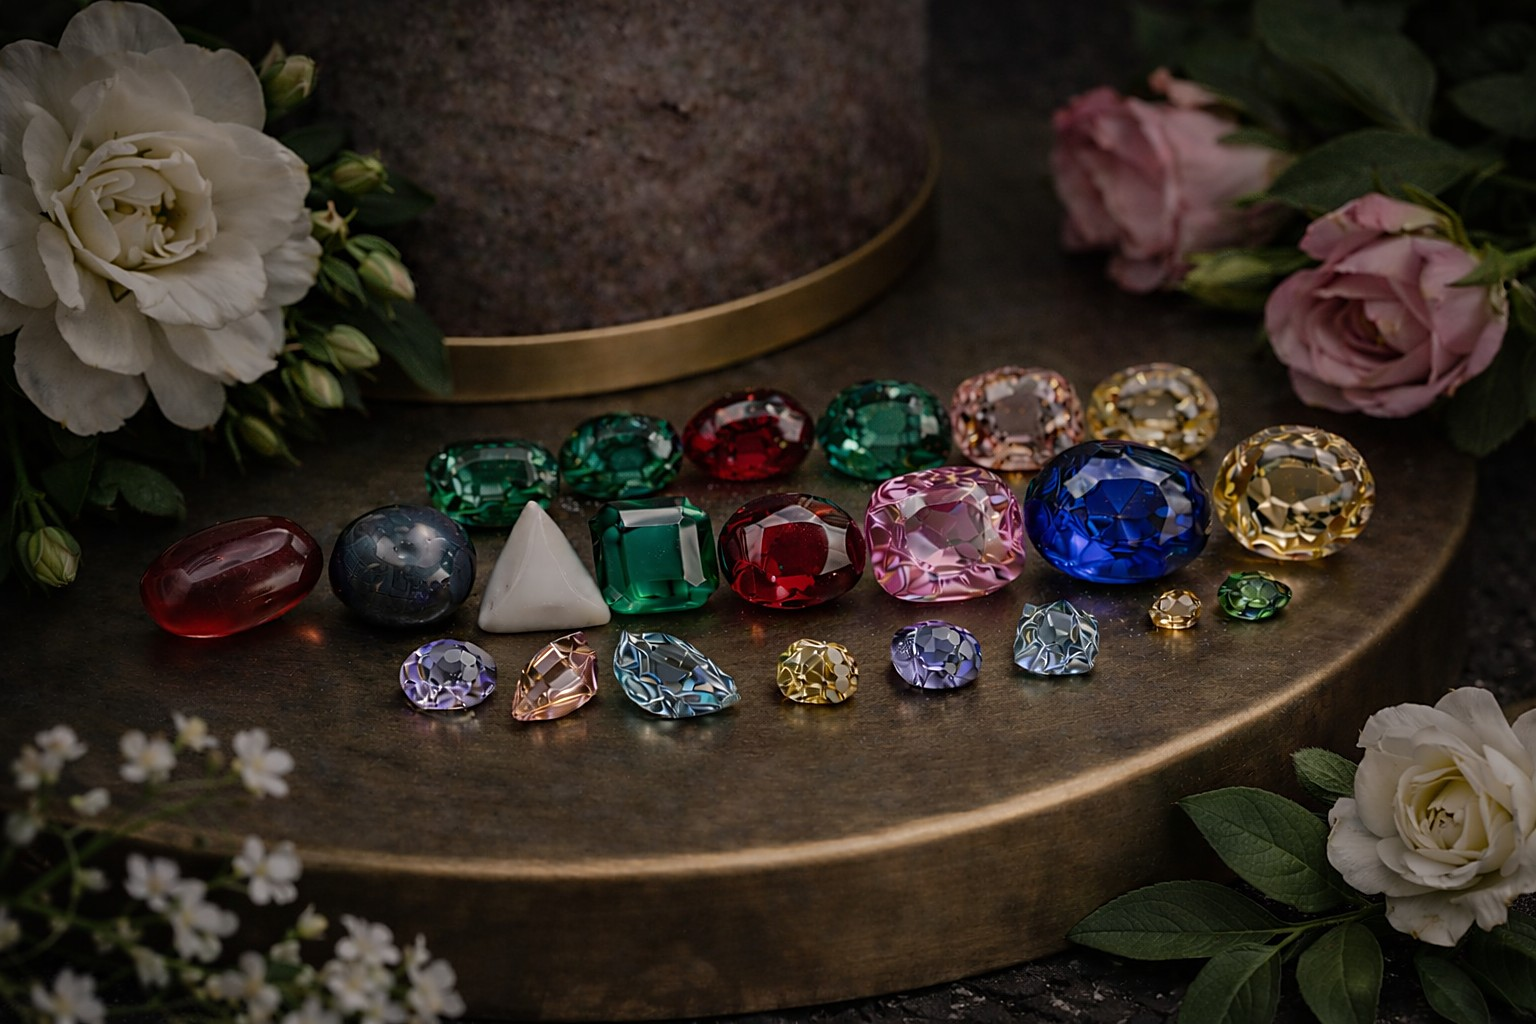
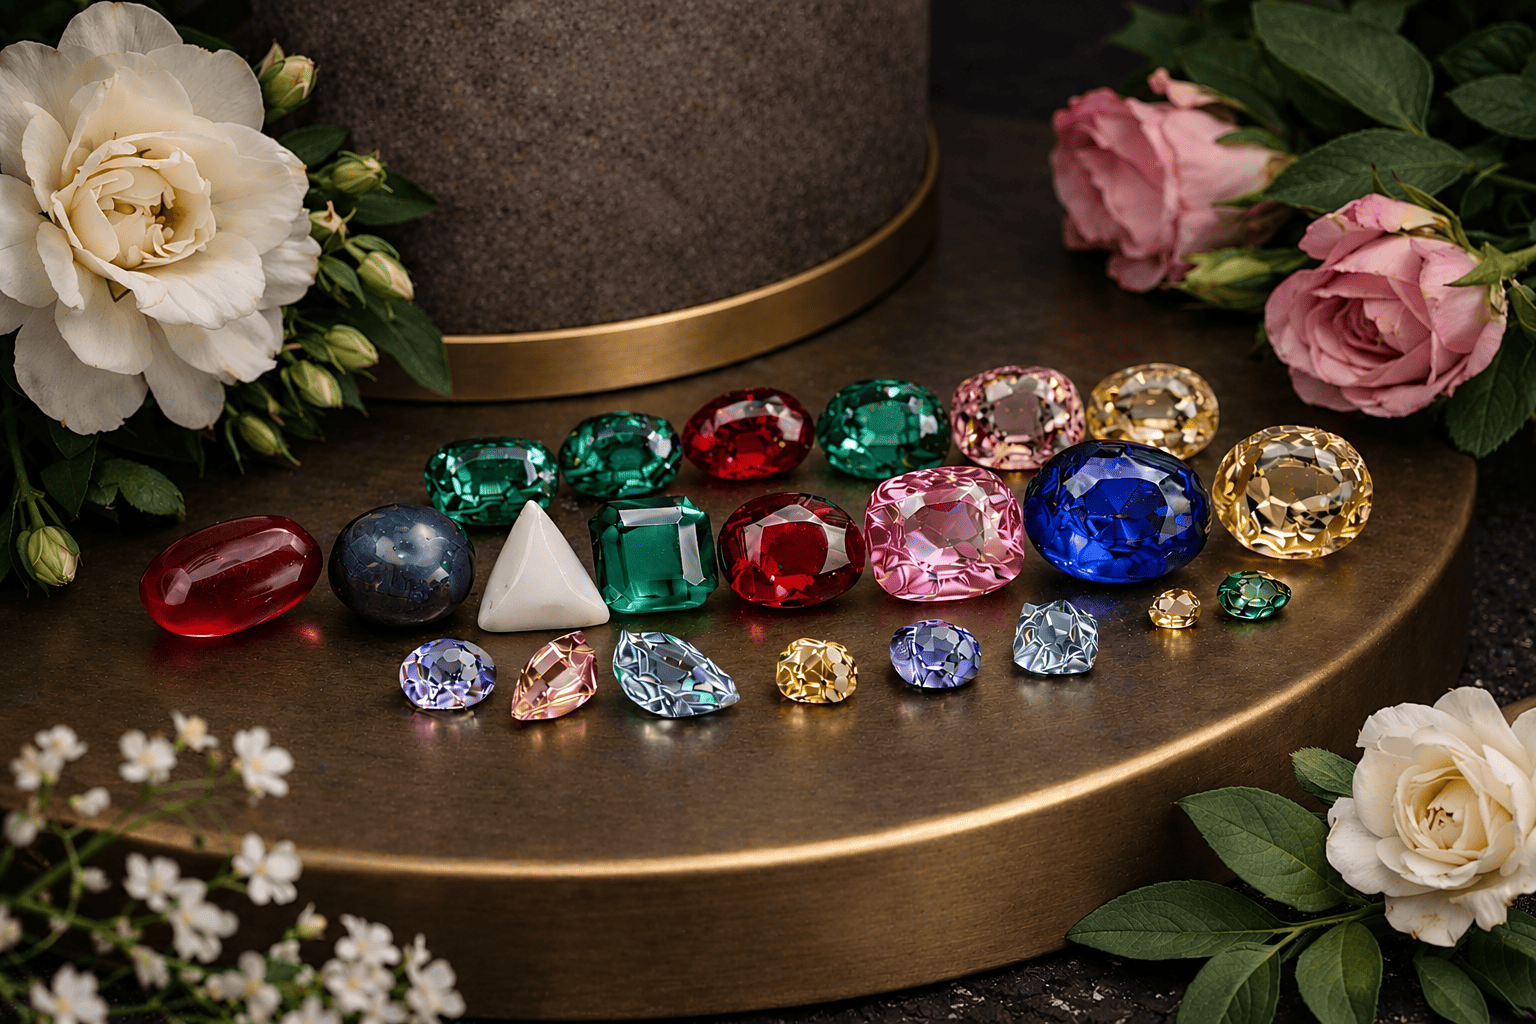
Move the hero photograph into images
public/hero.jpg goes to public/images/hero.jpg, where the rest of the
photography lives, and Hero.jsx follows it.

It lands on the old hero file of the same name, which nothing referenced any
more except one thing: index.html points og:image at /images/hero.jpg, so the
social preview has been showing the superseded photograph all along. It now
shows the current one without the tag changing.

The old file is still in history if it is ever wanted.

diff --git a/src/components/Hero.jsx b/src/components/Hero.jsx
@@ -4,7 +4,7 @@ export default function Hero() {
   return (
     <section id="top" className="relative min-h-[100svh] overflow-hidden">
       <img
-        src="/hero.jpg"
+        src="/images/hero.jpg"
         alt="Natural emerald, ruby, sapphire, opal and pearl on a jeweller’s tray"
         className="hero-zoom absolute inset-0 h-full w-full object-cover"
         fetchPriority="high"
